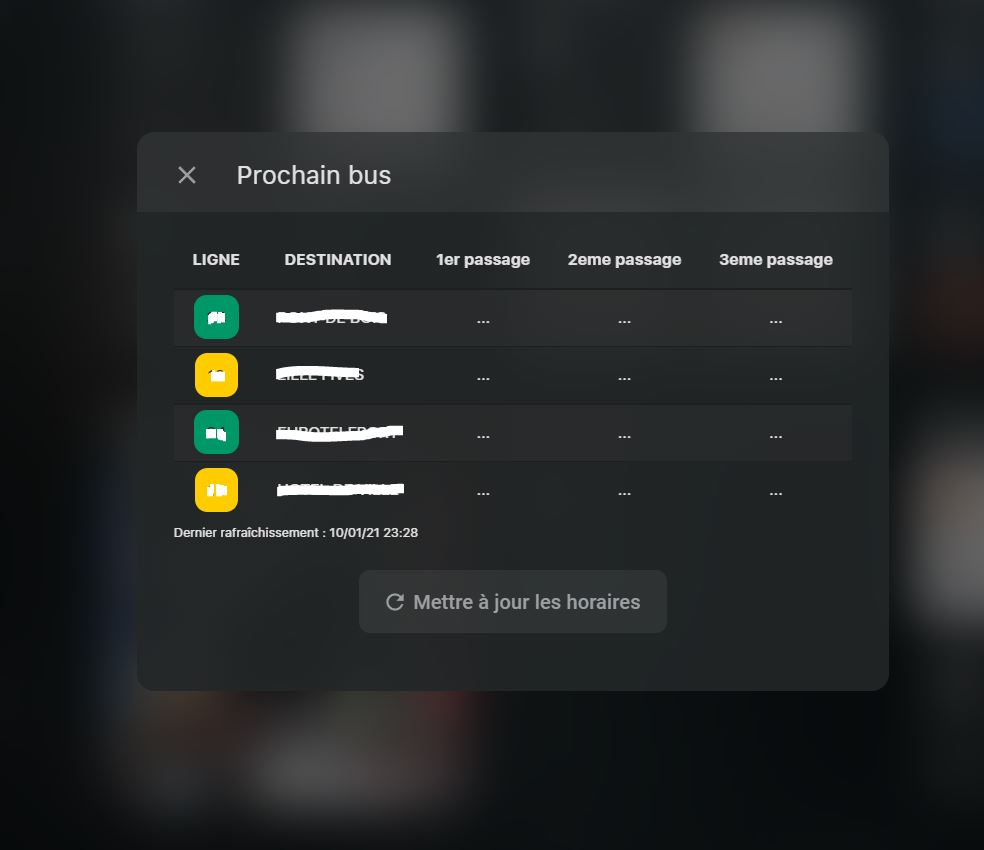
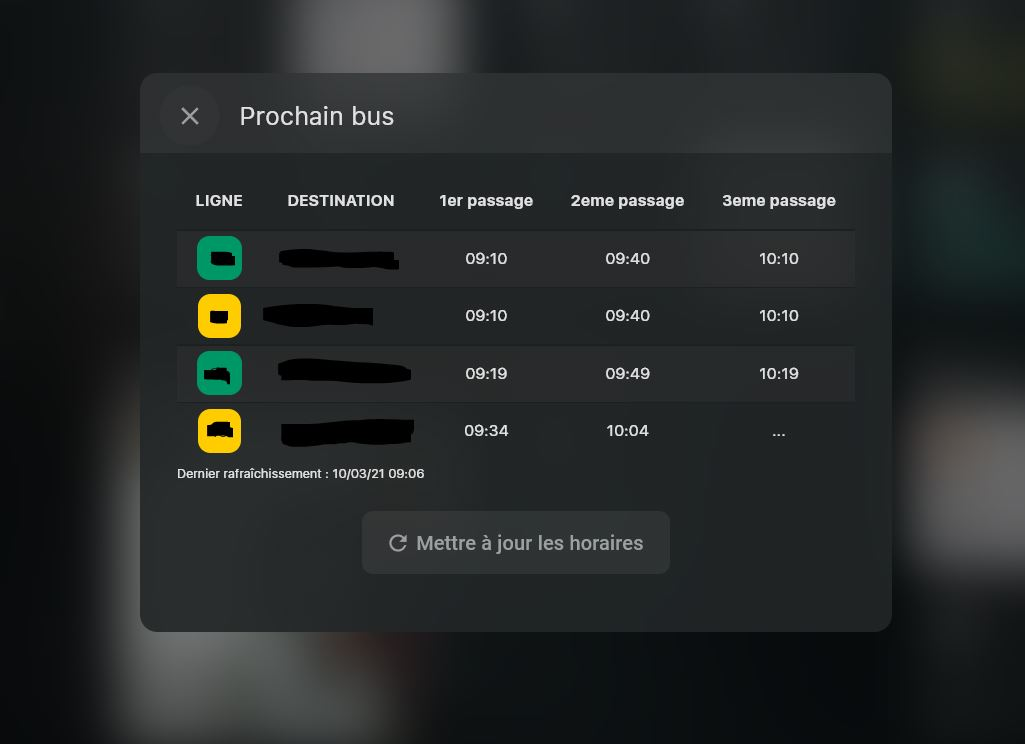
update README and photos

diff --git a/README.md b/README.md
@@ -2,13 +2,11 @@
 [![Demandez moi n'importe quoi !](https://img.shields.io/badge/Demandez%20moi-n'%20importe%20quoi-1abc9c.svg)](https://github.com/KaoruKanon/homeassistant-config) [![Maintenance](https://img.shields.io/badge/Maintained%3F-yes-green.svg)](https://GitHub.com/Naereen/StrapDown.js/graphs/commit-activity) [![Twitter](https://img.shields.io/twitter/follow/kaorussh?style=social)](https://twitter.com/kaorussh)   [![GitHub stars](https://img.shields.io/github/stars/KaoruKanon/homeassistant-config?style=social)](https://github.com/KaoruKanon/homeassistant-config)
 
 
+Cette configuration est basée sur celle de matt8707 [ [github](https://github.com/matt8707/hass-config) / [forum anglais](https://community.home-assistant.io/t/a-different-take-on-designing-a-lovelace-ui/162594) ]
 
+Mon Home assistant tourne sous un Raspberry Pi 3B+, avec lequel j'utilise une tablette Lenovo wall mounted avec [Fullykiosk](https://play.google.com/store/apps/details?id=de.ozerov.fully&hl=fr&gl=US), avec un chageur magnétique. J'utilise [applicationize](https://applicationize.me/) pour créer une webapp sous chrome en mode kiosk.
 
-Bienvenue sur le repo github de ma configuration d'home assistant. Cette configuration est basée sur celle de matt8707 [ [github](https://github.com/matt8707/hass-config) / [forum anglais](https://community.home-assistant.io/t/a-different-take-on-designing-a-lovelace-ui/162594) ]
-
-Mon Home assistant tourne sous un raspberry pi 3B+, avec lequel j'utilise une tablette Lenovo wall mounted, avec un chageur magnétique. Tout comme matt87087, j'utilise [applicationize](https://applicationize.me/) pour créer une webapp sous chrome en mode kiosk.
-
-N'hésitez pas à mettre une ⭐ sur mon repo.
+T'aimes mon repo ? Laisse une ⭐.
 * [![Twitter](https://img.shields.io/twitter/follow/kaorussh?style=social)](https://twitter.com/kaorussh)
 * [Profil HACF](https://forum.hacf.fr/u/kaoru)
 * [Topic de mon dashboard sur HACF](https://forum.hacf.fr/t/mon-dashboard-kaoru/1022)
@@ -33,75 +31,96 @@ N'hésitez pas à mettre une ⭐ sur mon repo.
 | 📺 | Samsung TV | 1 |
 | ⚡ | Enedis | 1 |
 
-D'autres ampoules et boutons sans-fil devraient arriver d'ici quelques semaines pour terminer la domotisation des lumières
+D'autres ampoules et boutons sans-fil devraient arriver d'ici prochainement pour terminer la domotisation des lumières
 
 ## Les fonctionnalités créées par moi
 Je vous invite à consulter son repo github pour y voir les fonctionalités de bases proposées par son dashboard. J'ai créé de nouvelles fonctionallités pour répondre à mes besoins.
 
-### Card de mes thermomètre
-Card des thermomètre basé sur le design des boutons. Il affiche le graph de la température des 12 dernières heures. Le popup avec témpérature et humidité à l'instant T, avec un graphique des 48 dernières heures.
+### Thermomètre
+`custom:button-card` des thermomètre avec un `custom:mini-graph-card`. Il affiche le graph de la température des 12 dernières heures. Il est accompagné d'un popup avec témpérature et humidité à l'instant T, avec un graphique des 48 dernières heures.
 
 ![thermometre]
-<img src="/images/thermometre-popup.jpg" height="367">
+![thermometre-popup]
+
+### Météo
+
+Popup météo qui donne la prévision des prochains jours `weather-forecast`,`custom:mini-graph-card` de la témpérature et humidité des ces dernières 24h et les images satellites grâce à  [Windy](https://windy.com) contenu dans un `iframe`. Plus d'information via ce [lien](https://www.youtube.com/watch?v=U8j5p-DUdAE)
 
 ### Media
-* Intégration officielle de spotify en tant que mediaplayer pour l'ajouter avec les chromecast des medias. Popup avec l'utilisation du frontend [Spotify Lovelace Card](https://github.com/custom-cards/spotify-card) pour lancer une playlist sur une chromecast. Fonctionne grâce au custom component [Start Spotify on chromecast](https://github.com/fondberg/spotcast)
+
+* Intégration officielle de Spotify et Plex en tant que mediaplayer pour l'ajouter avec les chromecast des medias.
+* Popup [Spotify Lovelace Card](https://github.com/custom-cards/spotify-card) pour lancer une playlist sur un chromecast. Fonctionne grâce au custom component [Start Spotify on chromecast](https://github.com/fondberg/spotcast)
 
 <img src="/images/spotify-card.jpg" height="130"> <img src="/images/spotify-active.jpg" height="130">
 
 <img src="/images/spotify-popup.jpg" height="366">
 
-* Popup qui permet de contrôler le volume ou skip la musique sur les chromecast.
-
 <img src="/images/media-player-control.jpg" height="200">
 
 ### Popup automation
-Popup via le bouton Partir, qui permet via un switch de couper l'automation qui éteint les lumières quand nous sommes absents tous les deux.
+
+Popup accessible depuis le bouton Partir, qui permet via un switch de couper l'automation qui éteint les lumières pour éviter les démarrage d'automation lorsque des invités sont présents chez soi.
 
 <img src="/images/automation-popup.jpg" height="200">
 
-### Bouton et automation des snapshots.
-J'ai ajouté dans le popup information un bouton pour faire un snapshot manuelle depuis le dashboard. J'ai également mis en place une automation qui fait un snapshot tous les jours à miniuit.
-
-<img src="/images/bouton-snapshot.jpg" height="300">
 
 ### Afficher le timer en cours du google home de la cuisne
-J'utilise le travail de [chvancooten](https://github.com/chvancooten/homeassistant-googletokenretriever) pour récupérer le minuteur du google home et l'afficher en bas.
+
+Affichage du timer du google home en bas de l'interface grâce au travail [chvancooten](https://github.com/chvancooten/homeassistant-googletokenretriever)
 
 <img src="/images/google-timer.jpg" height="100"> <img src="/images/google-timer-no-timer.jpg" height="100">
 
-### Monitoring des batteries, services, systèmes et réseaux
+### Sidebar
 
-<img src="/images/monitoring-battery-service.jpg" height="300">
+#### Bouton et automation des snapshots.
+* Ajout dans le menu update de la sidebar d'un bouton pour faire une snapshot manuelle depuis le dashboard.
+* Mise en place une automation qui fait un snapshot tous les jours à miniuit.
 
-### Monitoring de la bbox
+<img src="/images/bouton-snapshot.jpg" height="300">
 
-La platerform [bbox](https://www.home-assistant.io/integrations/bbox/) officiel de home assistant ne fonctionne pas correctement. J'ai créé un script python qui utilise l'API d'HA et [ppybox](https://github.com/HydrelioxGitHub/pybbox). J'ai modifié ce dernier pour le débugger mais également créer de nouvelles méthodes pour mon utilisation.  
+#### Monitoring des batteries, services, systèmes et réseaux
+
+Création d'un popup qui me permet de monitorer rapidement l'infrascture et la domotique :
+
+* Réseaux et systèmes des équipements grâce à la platform ping.
+* Monitoring des services web hébergés
+* Barre de progression des équipements domotiques sous batterie
+
+![monitoring](https://github.com/KaoruKanon/homeassistant-config/tree/master/imagesmonitoring-battery-service.jpg)
+
+#### Monitoring de la bbox
+
+Ajout d'un pop qui le monitoring la bbox avec les différentes stats accessible via son API.
+La platerform [bbox](https://www.home-assistant.io/integrations/bbox/) officiel de home assistant ne fonctionne pas correctement. J'ai créé un script python qui utilise l'API d'HA et [ppybox](https://github.com/HydrelioxGitHub/pybbox). Ce dernier a été modifié pour le débugger mais également créer de nouvelles méthodes pour mon utilisation.  
+
 <img src="/images/bbox-monitoring.jpg" height="500">
 
-### Horaire des prochains bus
+#### Horaire des prochains bus
 
-J'ai implémenté les horaires de bus d'Ilévia via l'[API officiel de la Métropole Européenne de Lille](https://opendata.lillemetropole.fr/explore/dataset/ilevia-prochainspassages/information/?flg=fr)  
+Implémentations des horaires de bus d'Ilévia via l'[API officiel de la Métropole Européenne de Lille](https://opendata.lillemetropole.fr/explore/dataset/ilevia-prochainspassages/information/?flg=fr)  
+
 <img src="/images/bus.jpg" height="500">
 
-### QR-CODE du WiFi
+#### QR-CODE du WiFi
 
-Pour facilité l'utilisation du WiFi chez moi, j'ai mis en place un popup contenant le QR code WiFi qui n'a besoin d'être scanné mais aussi le code et le SSID en clair pour le faire manuellement.
+Ajout d'un QR-Code du WiFi accessible facilement depuis la tablette pour les invités. Le SSID et le password est accessible en clair également.
 
 <img src="/images/wifi-qrcode.jpg" height="500">
 
 ## Ma façon d'implémenter son code
-L'auteur est suédois et nous n'avons pas les mêmes équipements.
+
+matt8707 est suédois et nous n'avons pas les mêmes équipements et services pour la notre domotique.
 
 ### Consomation électrique
 
-Pour la consommation électrique, j'utilise le custom component [myEnedis](https://github.com/saniho/apiEnedis). L'auteur utilise un script python qui va chercher sa consommation chez son fourniseur et rempli un fichier dont le contenu est lu par home assistant. La consommation de chaque mois est découpé par un capteur. Il y a donc 12 capteurs utilisés utilisé par son popup consomation. Pour garder sa base, j'ai créé un script python qui garde le même principe, mais récupère la consomation du sensor myEnedis avec l'api de Home assistant. Je sais dit comme ça, c'est un peu particulier.
+matt8707 utilisait un script python qui récupère sa consommation chez son fourniseur et rempli un fichier dont le contenu est lu par home assistant. La consommation de chaque mois est découpé par un capteur qui lui est dédié (12 captures).
+Pour garder cette base, j'ai créé un script python qui fait la même chose, mais je ne récupère pas les stats d'Enedis depuis leur API moi-même mais grâce au custom component [myEnedis](https://github.com/saniho/apiEnedis) depuis l'API d'Home Assistant.  
 
-Home Assistant lance le script toutes les heures via une automation.
+Home Assistant lance le script toutes les heures via une automation. Possible de le faire manuellement depuis un boutton.
 
 ### Météo
 
-Météo avec l'api MétéoFrance et son intégration officiel.
+Météo avec l'api [Météo-France](https://www.home-assistant.io/integrations/meteo_france/) et son intégration officiel.
 
 ### Monitoring des PC
 
@@ -110,17 +129,16 @@ Utilisation de [IOT Link](https://iotlink.gitlab.io/) pour contrôler les PC sou
 ## TODO et idées..
 
 ### Implémentations restantes à finir
-* ...
-
+* TV samsung (en cours)
 
 ### Problèmes
-* Notifications de mise à jour de HASS, etc...
-* Améliorer la carte thermomètre : En cas de forte différence de température entre le minimum et le maximum, la courbe est coupée par la card.
+* Améliorer les cards thermomètre : En cas de forte différence de température entre le minimum et le maximum, la courbe est coupée par la card.
 
 ### Idées
-* ...
 * Prise en charge par le dashboard de futures caméras.
-
+* Système d'alarme
+* Robot aspirateur
+* Consommation eau et chauffage
 
 
 <!-- MARKDOWN LINKS & IMAGES -->
@@ -135,3 +153,4 @@ Utilisation de [IOT Link](https://iotlink.gitlab.io/) pour contrôler les PC sou
 [thermometre]: /images/thermometre.gif
 [automation-popup]: /images/automation-popup.jpg
 [bouton-snapshot]: images/bouton-snapshot.jpg
+[weather]: images/weather.jpg
